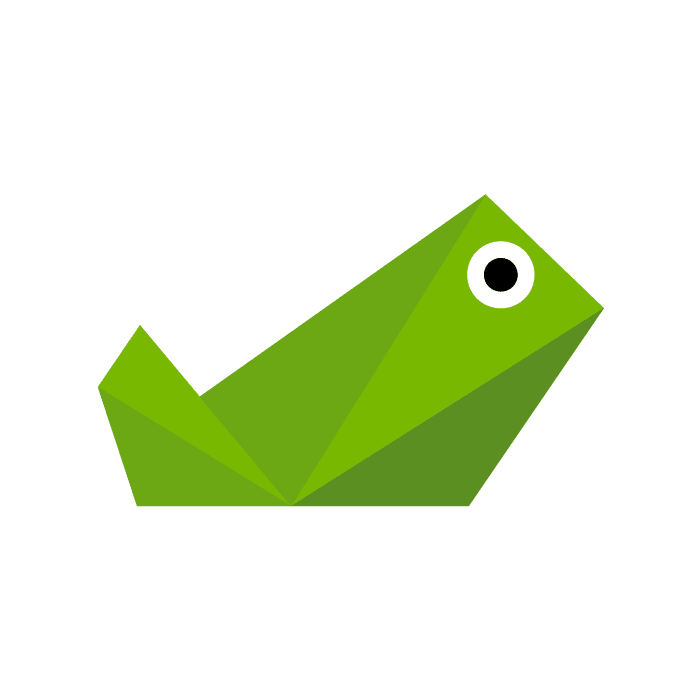
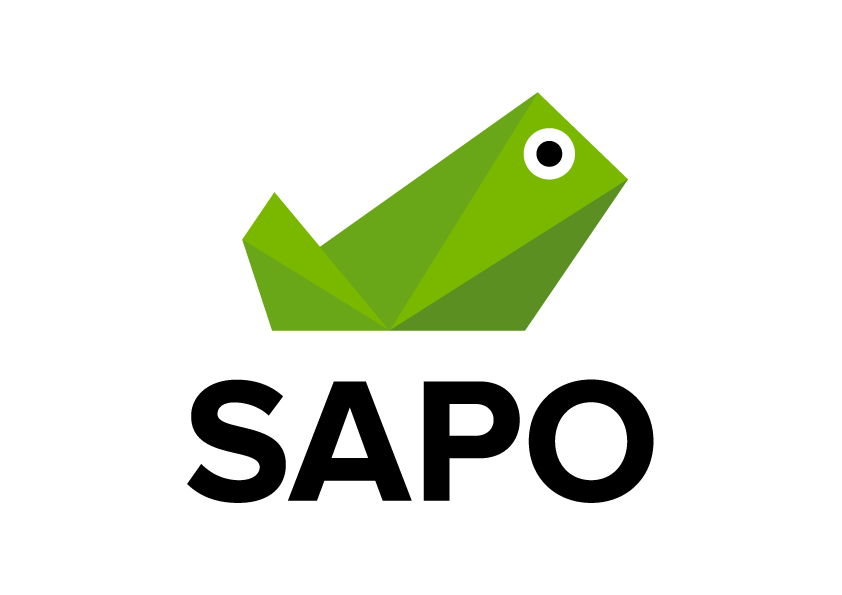
Add changes

Changed region(s): [[0.12, 0.1513, 0.87, 0.8471]]

diff --git a/css/styles.css b/css/styles.css
@@ -18,22 +18,21 @@ body {
 
 header {
 	grid-area: header;
-	height: 43.375em;
+	height: 55.1875em;
 	background-color: #6E6E6E;
-	-webkit-clip-path: polygon(0 0, 100% 0, 100% 94%, 0% 100%);
-	clip-path: polygon(0 0, 100% 0, 100% 94%, 0% 100%);
 }
 
 .header-overlay {
 	position: absolute;
     background: url(../assets/Sapo_background.png) no-repeat center;
-    background-size: 350%;
+    background-size: 400%;
     opacity: 0.1;
-    height: 110%;
+    height: inherit;
     width: 100%;
 }
 
 .header-container {
+	position: relative;
 	display: flex;
 	justify-content: space-between;
 	align-items: center;
@@ -69,8 +68,84 @@ header {
 	margin: 6px 0;
 }
 
+.geo1 {
+	position: absolute;
+	border: 6px solid #3399CC;
+}
+
+.geo2 {
+	position: absolute;
+}
+
+.rect1,
+.rect2 {
+	width: 16px;
+	height: 64px;
+	-moz-transform: rotate(300deg);
+	-webkit-transform: rotate(300deg);
+	-o-transform: rotate(300deg);
+	-ms-transform: rotate(300deg);
+	transform: rotate(300deg);
+}
+
+.rect1 {
+	top: 155px;
+    left: 182px;
+}
+
+.rect2 {
+	top: 345px;
+    left: 173px;
+}
+
+.tri1 {
+	top: 218px;
+    left: 87px;
+    border-left: 20px solid transparent;
+    border-right: 80px solid transparent;
+    border-bottom: 110px solid #3399CC;
+	-moz-transform: scale(-.4, .4) rotate(-75deg);
+	-webkit-transform: scale(-.4, .4) rotate(-75deg);
+	-o-transform: scale(-.4, .4) rotate(-75deg);
+	-ms-transform: scale(-.4, .4) rotate(-75deg);
+	transform: scale(-.4, .4) rotate(-75deg);
+}
+
+.circle {
+	border-radius: 50%;
+    width: 65px;
+    height: 65px;
+    top: 404px;
+	left: 61px;
+}
+
+.tri2 {
+	top: 390px;
+	left: 203px;
+    border-left: 20px solid transparent;
+    border-right: 80px solid transparent;
+    border-bottom: 110px solid #3399CC;
+	-moz-transform: scale(-.7, .7) rotate(-25deg);
+	-webkit-transform: scale(-.7, .7) rotate(-25deg);
+	-o-transform: scale(-.7, .7) rotate(-25deg);
+	-ms-transform: scale(-.7, .7) rotate(-25deg);
+	transform: scale(-.7, .7) rotate(-25deg);
+}
+
+.icone-offset {
+	position: relative;
+    top: 382px;
+    width: 306px;
+    height: 189px;
+    margin: auto;
+    background: url(../assets/Sapo_simbolo.png) no-repeat -187px 25%;
+    background-size: 215%;
+}
+
 main {
 	grid-area: main;
+	/*-webkit-clip-path: polygon(0 15%, 100% 100%, 100% 100%, 0% 100%);
+	clip-path: polygon(0 15%, 100% 100%, 100% 100%, 0% 100%);*/
 }
 
 footer {

diff --git a/index.html b/index.html
@@ -10,8 +10,7 @@
 </head>
 <body>
 	<header>
-		<div class="header-overlay">
-		</div>
+		<div class="header-overlay"></div>
 		
 		<div class="header-container">
             <a href="#">
@@ -24,9 +23,36 @@
 				<div class="bar3"></div>
             </div>
         </div>
+
+        <div>
+        	<div class="geo1 rect1"></div>
+
+        	<div class="geo2 tri1"></div>
+
+        	<div class="geo1 rect2"></div>
+
+        	<div class="geo1 circle"></div>
+
+        	<div class="geo2 tri2"></div>        	
+        </div>
+
+        <div class="icone-offset"></div>
 	</header>
 
 	<main>
+		<div class="color-app">
+			<div class="square left"></div>
+			<div class="square center"></div>
+			<div class="square right"></div>
+		</div>
+
+		<section>
+			<h1>Marca</h2>
+			<div class="geo2 tri2"></div>
+
+			<h2>Sapo</h2>
+			<p>Estamos consigo desde 1995, mas ainda mal começámos a tocar o futuro. Apostamos na credibilidade, na criatividade, na inovação, na tecnologia e na proximidade. Somos o SAPO, vamos tornar a sua vida mais simples, mais informada, mais divertida, mais prática, aqui e em todo o mundo. Queremos estar na sua vida.</p>
+		</section>
 
 	</main>
 
